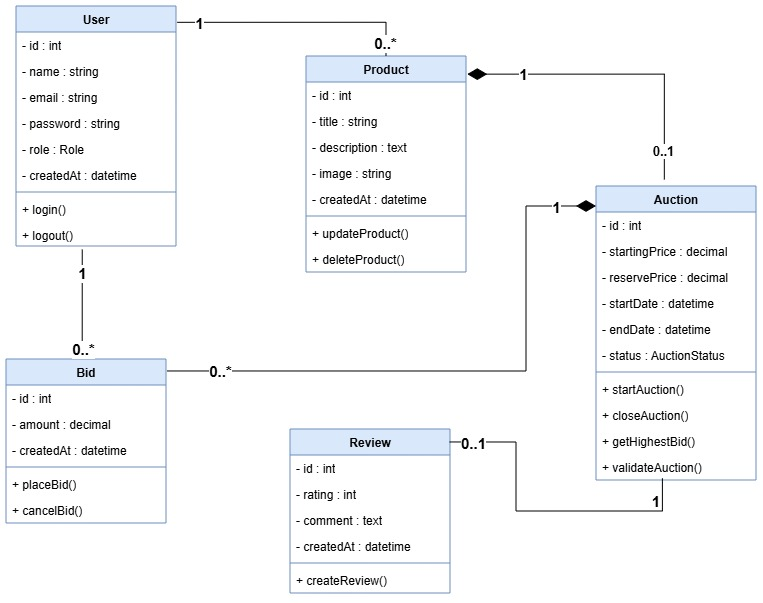
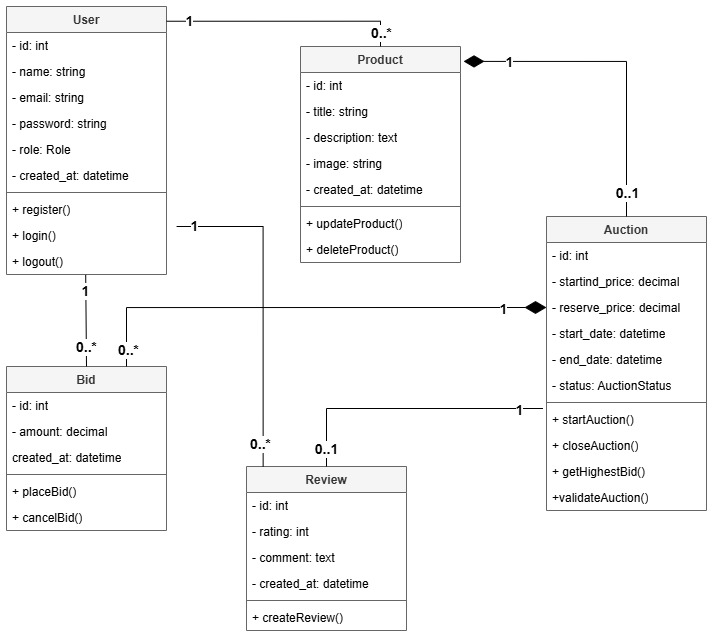
feat: BID-19 create migrations for products, auctions, bids and reviews tables with relationships

Changed region(s): [[0.0, 0.0, 1.0, 0.8955], [0.3394, 0.6866, 0.6788, 1.0], [0.6788, 0.8358, 0.864, 0.8657]]

diff --git a/database/migrations/2026_03_06_190015_create_auctions_table.php b/database/migrations/2026_03_06_190015_create_auctions_table.php
@@ -1,0 +1,33 @@
+<?php
+
+use Illuminate\Database\Migrations\Migration;
+use Illuminate\Database\Schema\Blueprint;
+use Illuminate\Support\Facades\Schema;
+
+return new class extends Migration
+{
+    /**
+     * Run the migrations.
+     */
+    public function up(): void
+    {
+        Schema::create('auctions', function (Blueprint $table) {
+            $table->id();
+            $table->foreignId('product_id')->constrained()->cascadeOnDelete();
+            $table->decimal('starting_price', 10, 2);
+            $table->decimal('reserve_price', 10, 2);
+            $table->dateTime('start_date');
+            $table->dateTime('end_date');
+            $table->string('status')->default('active');
+            $table->timestamps();
+        });
+    }
+
+    /**
+     * Reverse the migrations.
+     */
+    public function down(): void
+    {
+        Schema::dropIfExists('auctions');
+    }
+};

diff --git a/database/migrations/2026_03_06_191402_create_reviews_table.php b/database/migrations/2026_03_06_191402_create_reviews_table.php
@@ -1,0 +1,31 @@
+<?php
+
+use Illuminate\Database\Migrations\Migration;
+use Illuminate\Database\Schema\Blueprint;
+use Illuminate\Support\Facades\Schema;
+
+return new class extends Migration
+{
+    /**
+     * Run the migrations.
+     */
+    public function up(): void
+    {
+        Schema::create('reviews', function (Blueprint $table) {
+            $table->id();
+            $table->foreignId('user_id')->constrained()->cascadeOnDelete();
+            $table->foreignId('auction_id')->constrained()->cascadeOnDelete();
+            $table->integer('rating')->default(0);
+            $table->text('comment')->nullable();
+            $table->timestamps();
+        });
+    }
+
+    /**
+     * Reverse the migrations.
+     */
+    public function down(): void
+    {
+        Schema::dropIfExists('reviews');
+    }
+};

diff --git a/database/migrations/2026_03_06_190737_create_bids_table.php b/database/migrations/2026_03_06_190737_create_bids_table.php
@@ -1,0 +1,31 @@
+<?php
+
+use Illuminate\Database\Migrations\Migration;
+use Illuminate\Database\Schema\Blueprint;
+use Illuminate\Support\Facades\Schema;
+
+return new class extends Migration
+{
+    /**
+     * Run the migrations.
+     */
+    public function up(): void
+    {
+        Schema::create('bids', function (Blueprint $table) {
+            $table->id();
+            $table->foreignId('user_id')->constrained()->cascadeOnDelete();
+            $table->foreignId('auction_id')->constrained()->cascadeOnDelete();
+            $table->decimal('amount', 10, 2);
+            $table->index(['auction_id', 'amount']);
+            $table->timestamps();
+        });
+    }
+
+    /**
+     * Reverse the migrations.
+     */
+    public function down(): void
+    {
+        Schema::dropIfExists('bids');
+    }
+};

diff --git a/app/Models/Auction.php b/app/Models/Auction.php
@@ -1,0 +1,10 @@
+<?php
+
+namespace App\Models;
+
+use Illuminate\Database\Eloquent\Model;
+
+class Auction extends Model
+{
+    //
+}

diff --git a/app/Models/Review.php b/app/Models/Review.php
@@ -1,0 +1,10 @@
+<?php
+
+namespace App\Models;
+
+use Illuminate\Database\Eloquent\Model;
+
+class Review extends Model
+{
+    //
+}

diff --git a/app/Models/Bid.php b/app/Models/Bid.php
@@ -1,0 +1,10 @@
+<?php
+
+namespace App\Models;
+
+use Illuminate\Database\Eloquent\Model;
+
+class Bid extends Model
+{
+    //
+}
